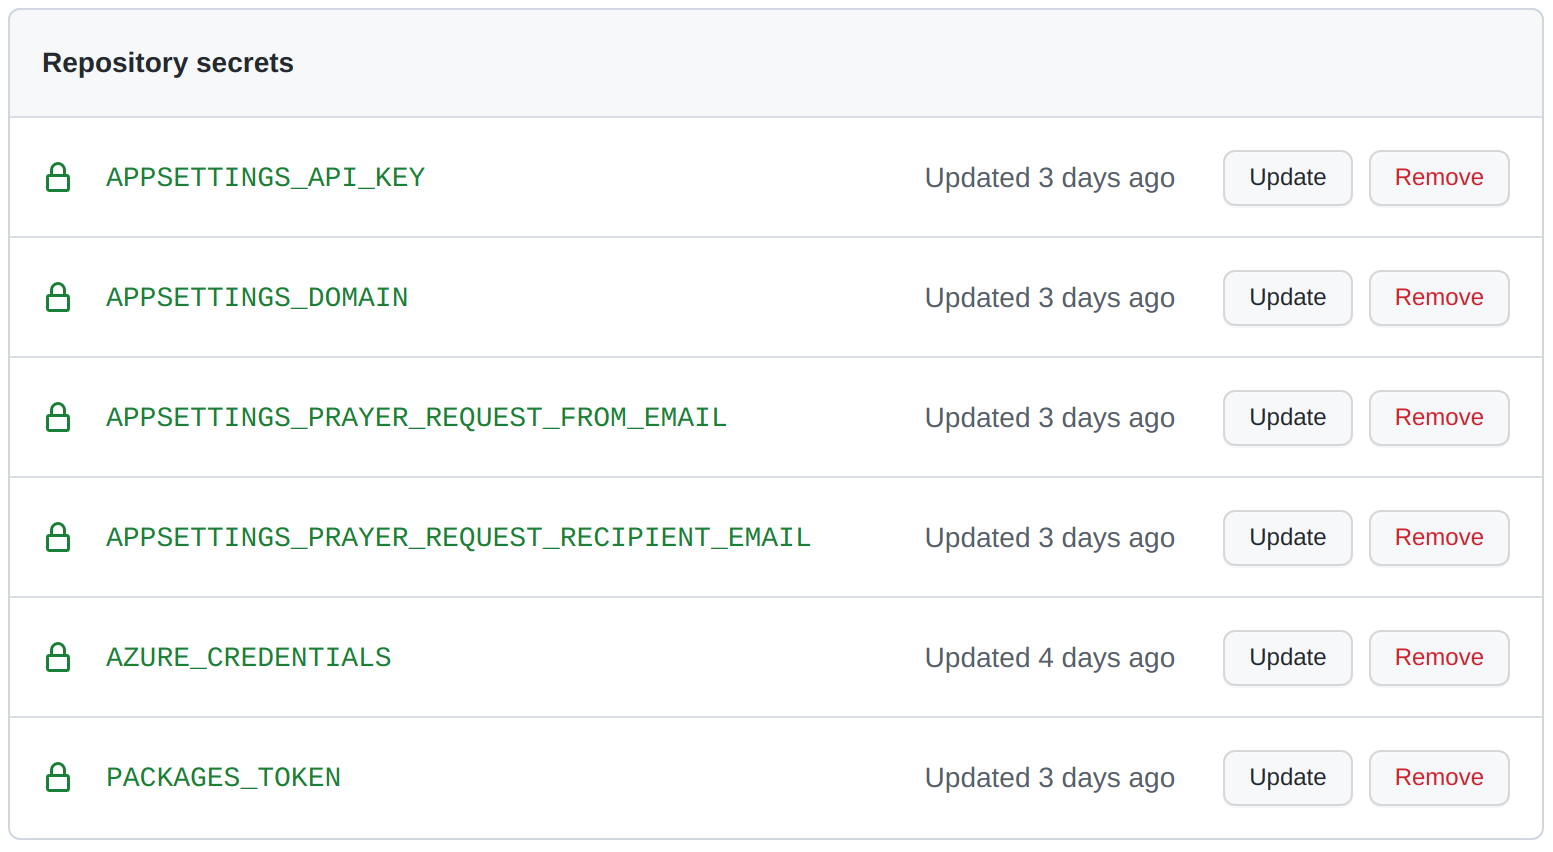
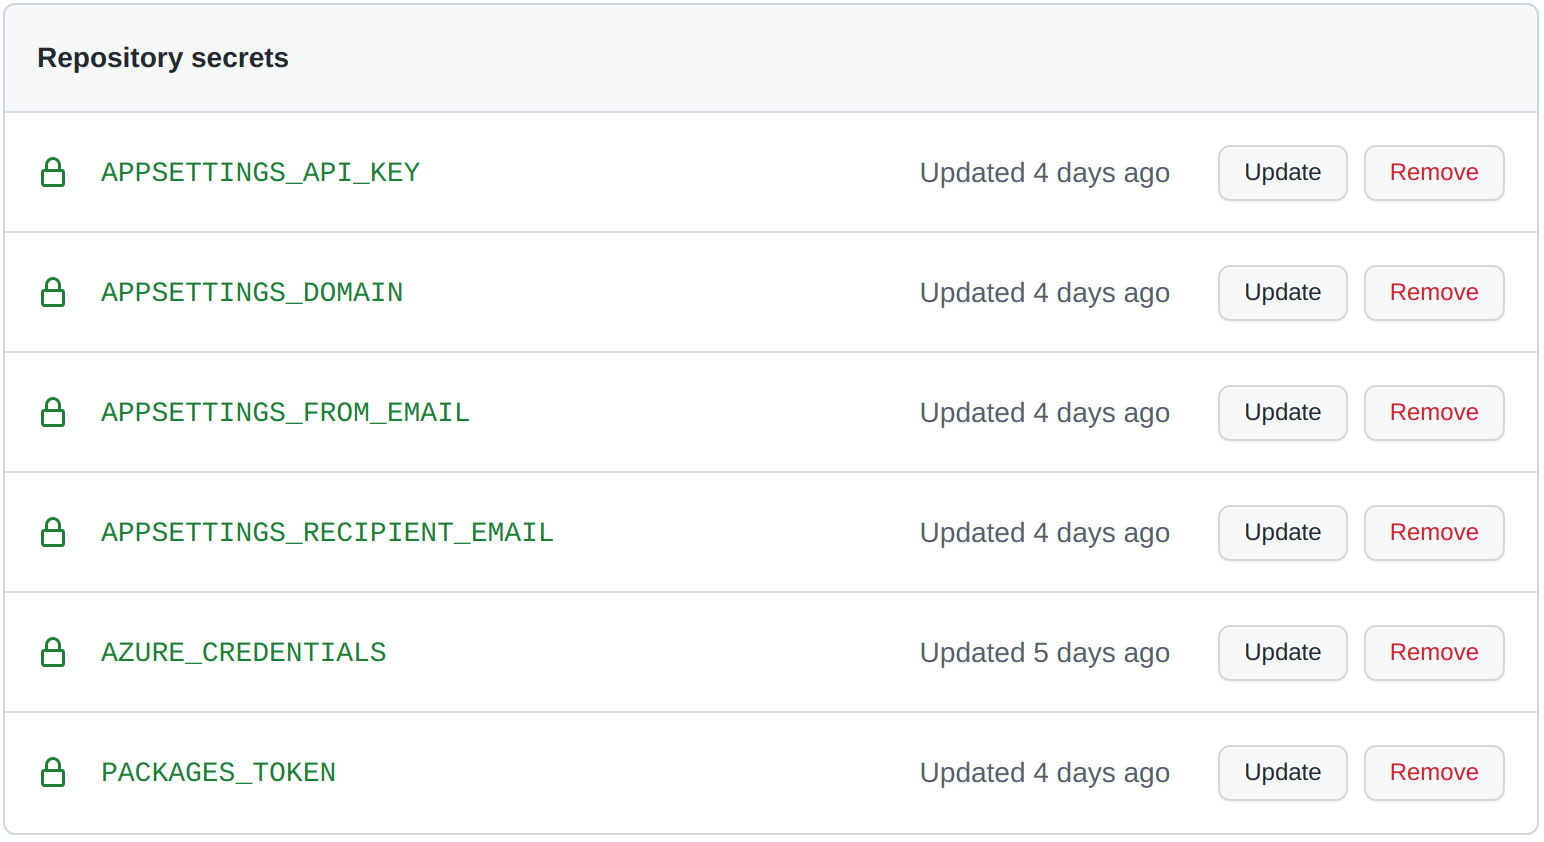
terser

diff --git a/blog-website/blog/2021-12-27-azure-container-apps-build-and-deploy-with-bicep-and-github-actions/index.md b/blog-website/blog/2021-12-27-azure-container-apps-build-and-deploy-with-bicep-and-github-actions/index.md
@@ -371,8 +371,8 @@ Alongside these infrastructure / deployment related secrets, we'll need ones to 
 
 - `APPSETTINGS_API_KEY` - an API key for Mailgun which will be used to send emails
 - `APPSETTINGS_DOMAIN` - the domain for the email eg `mg.poorclaresarundel.org`
-- `APPSETTINGS_PRAYER_REQUEST_FROM_EMAIL` - who automated emails should come from eg `noreply@mg.poorclaresarundel.org`
-- `APPSETTINGS_PRAYER_REQUEST_RECIPIENT_EMAIL` - the email address emails should be sent to
+- `APPSETTINGS_FROM_EMAIL` - who automated emails should come from eg `noreply@mg.poorclaresarundel.org`
+- `APPSETTINGS_RECIPIENT_EMAIL` - the email address emails should be sent to
 
 Strictly speaking, only the API key is a secret. But to simplify this post we'll configure all of these as secrets in GitHub.
 
@@ -486,8 +486,8 @@ jobs:
                   tags="$tags" \
                   APPSETTINGS_API_KEY="${{ secrets.APPSETTINGS_API_KEY }}" \
                   APPSETTINGS_DOMAIN="${{ secrets.APPSETTINGS_DOMAIN }}" \
-                  APPSETTINGS_PRAYER_REQUEST_FROM_EMAIL="${{ secrets.APPSETTINGS_PRAYER_REQUEST_FROM_EMAIL }}" \
-                  APPSETTINGS_PRAYER_REQUEST_RECIPIENT_EMAIL="${{ secrets.APPSETTINGS_PRAYER_REQUEST_RECIPIENT_EMAIL }}"
+                  APPSETTINGS_FROM_EMAIL="${{ secrets.APPSETTINGS_FROM_EMAIL }}" \
+                  APPSETTINGS_RECIPIENT_EMAIL="${{ secrets.APPSETTINGS_RECIPIENT_EMAIL }}"
 
       - name: What-if bicep
         uses: azure/CLI@v1
@@ -508,8 +508,8 @@ jobs:
                   tags="$tags" \
                   APPSETTINGS_API_KEY="${{ secrets.APPSETTINGS_API_KEY }}" \
                   APPSETTINGS_DOMAIN="${{ secrets.APPSETTINGS_DOMAIN }}" \
-                  APPSETTINGS_PRAYER_REQUEST_FROM_EMAIL="${{ secrets.APPSETTINGS_PRAYER_REQUEST_FROM_EMAIL }}" \
-                  APPSETTINGS_PRAYER_REQUEST_RECIPIENT_EMAIL="${{ secrets.APPSETTINGS_PRAYER_REQUEST_RECIPIENT_EMAIL }}"
+                  APPSETTINGS_FROM_EMAIL="${{ secrets.APPSETTINGS_FROM_EMAIL }}" \
+                  APPSETTINGS_RECIPIENT_EMAIL="${{ secrets.APPSETTINGS_RECIPIENT_EMAIL }}"
 ```
 
 There's a lot in this pipeline. Let's dig into the `build` and `deploy` jobs to see what's happening.
@@ -564,8 +564,8 @@ In the case of a pull request, it runs the [`az deployment group what-if`](https
             tags="$tags" \
             APPSETTINGS_API_KEY="${{ secrets.APPSETTINGS_API_KEY }}" \
             APPSETTINGS_DOMAIN="${{ secrets.APPSETTINGS_DOMAIN }}" \
-            APPSETTINGS_PRAYER_REQUEST_FROM_EMAIL="${{ secrets.APPSETTINGS_PRAYER_REQUEST_FROM_EMAIL }}" \
-            APPSETTINGS_PRAYER_REQUEST_RECIPIENT_EMAIL="${{ secrets.APPSETTINGS_PRAYER_REQUEST_RECIPIENT_EMAIL }}"
+            APPSETTINGS_FROM_EMAIL="${{ secrets.APPSETTINGS_FROM_EMAIL }}" \
+            APPSETTINGS_RECIPIENT_EMAIL="${{ secrets.APPSETTINGS_RECIPIENT_EMAIL }}"
 ```
 
 When it's not a pull request, it runs the [`az deployment group create`](https://docs.microsoft.com/en-us/cli/azure/deployment/group?view=azure-cli-latest#az_deployment_group_create) command which performs a deployment of our `main.bicep` file.
@@ -590,8 +590,8 @@ When it's not a pull request, it runs the [`az deployment group create`](https:/
             tags="$tags" \
             APPSETTINGS_API_KEY="${{ secrets.APPSETTINGS_API_KEY }}" \
             APPSETTINGS_DOMAIN="${{ secrets.APPSETTINGS_DOMAIN }}" \
-            APPSETTINGS_PRAYER_REQUEST_FROM_EMAIL="${{ secrets.APPSETTINGS_PRAYER_REQUEST_FROM_EMAIL }}" \
-            APPSETTINGS_PRAYER_REQUEST_RECIPIENT_EMAIL="${{ secrets.APPSETTINGS_PRAYER_REQUEST_RECIPIENT_EMAIL }}"
+            APPSETTINGS_FROM_EMAIL="${{ secrets.APPSETTINGS_FROM_EMAIL }}" \
+            APPSETTINGS_RECIPIENT_EMAIL="${{ secrets.APPSETTINGS_RECIPIENT_EMAIL }}"
 ```
 
 In either case we pass the same set of parameters:
@@ -606,8 +606,8 @@ containerRegistryPassword=${{ secrets.PACKAGES_TOKEN }} \
 tags="$tags" \
 APPSETTINGS_API_KEY="${{ secrets.APPSETTINGS_API_KEY }}" \
 APPSETTINGS_DOMAIN="${{ secrets.APPSETTINGS_DOMAIN }}" \
-APPSETTINGS_PRAYER_REQUEST_FROM_EMAIL="${{ secrets.APPSETTINGS_PRAYER_REQUEST_FROM_EMAIL }}" \
-APPSETTINGS_PRAYER_REQUEST_RECIPIENT_EMAIL="${{ secrets.APPSETTINGS_PRAYER_REQUEST_RECIPIENT_EMAIL }}"
+APPSETTINGS_FROM_EMAIL="${{ secrets.APPSETTINGS_FROM_EMAIL }}" \
+APPSETTINGS_RECIPIENT_EMAIL="${{ secrets.APPSETTINGS_RECIPIENT_EMAIL }}"
 ```
 
 These are either:
